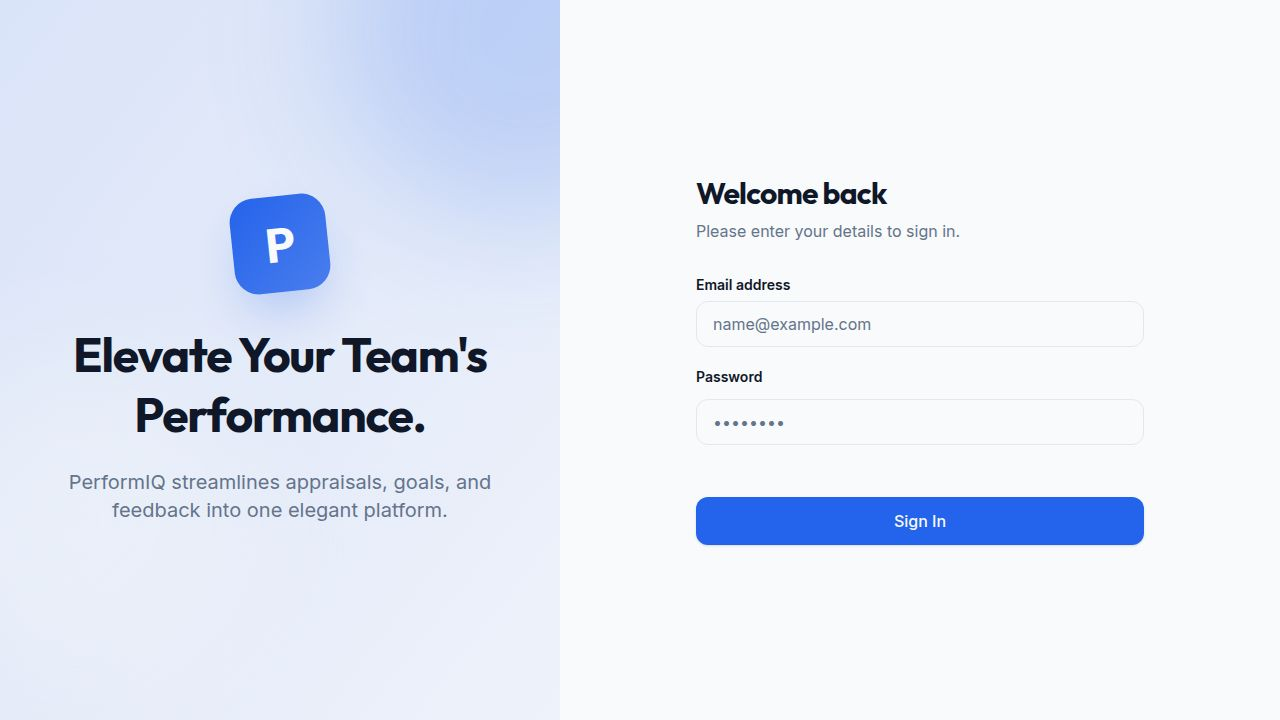
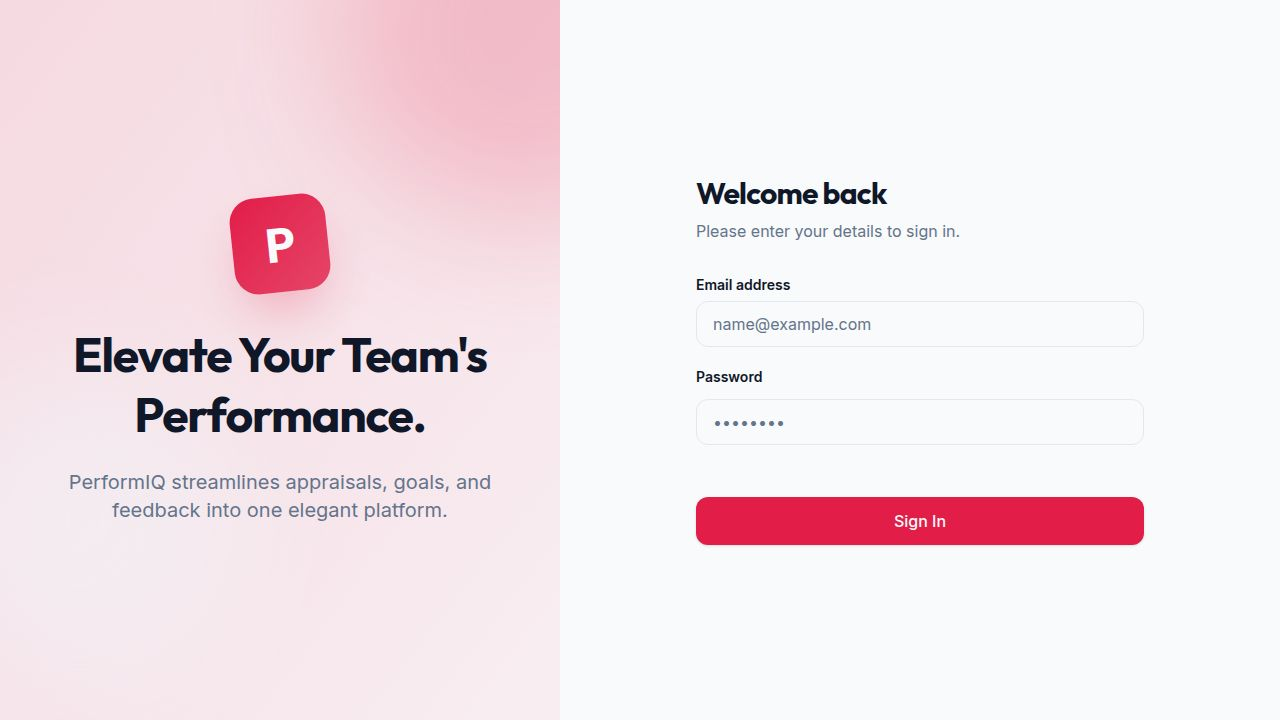
Add ability to customize the login page design from appearance settings
Introduce new settings for login page headline, subtext, and background gradient, allowing customization via the appearance settings page.

Replit-Commit-Author: Agent
Replit-Commit-Session-Id: 0c6ce9b4-778c-45e8-ae0c-097687640525
Replit-Commit-Checkpoint-Type: full_checkpoint
Replit-Commit-Event-Id: 38b9ef53-7b1d-4f4a-b946-f3e480108b39
Replit-Commit-Screenshot-Url: https://storage.googleapis.com/screenshot-production-us-central1/889d71d2-f1c3-46b7-b907-7d07c97ef2fa/0c6ce9b4-778c-45e8-ae0c-097687640525/knDMowQ
Replit-Helium-Checkpoint-Created: true

Changed region(s): [[0.0, 0.0, 0.4375, 0.4889], [0.5312, 0.6722, 0.9062, 0.7639]]

diff --git a/artifacts/performiq/src/pages/appearance.tsx b/artifacts/performiq/src/pages/appearance.tsx
@@ -8,8 +8,9 @@ import { Card, CardContent, CardHeader, CardTitle, CardDescription } from "@/com
 import { Button } from "@/components/ui/button";
 import { Input } from "@/components/ui/input";
 import { Label } from "@/components/ui/label";
+import { Textarea } from "@/components/ui/textarea";
 import { useToast } from "@/hooks/use-toast";
-import { Paintbrush, Type, Check } from "lucide-react";
+import { Paintbrush, Type, Check, Monitor } from "lucide-react";
 
 function authHeader() {
   const token = localStorage.getItem("token");
@@ -38,11 +39,24 @@ export default function Appearance() {
   const [companyName, setCompanyName] = useState(settings.companyName);
   const [logoLetter, setLogoLetter] = useState(settings.logoLetter);
   const [selectedTheme, setSelectedTheme] = useState(settings.themeName);
+  const [loginHeadline, setLoginHeadline] = useState(settings.loginHeadline);
+  const [loginSubtext, setLoginSubtext] = useState(settings.loginSubtext);
+  const [loginBgFrom, setLoginBgFrom] = useState(settings.loginBgFrom || "#f0f4ff");
+  const [loginBgTo, setLoginBgTo] = useState(settings.loginBgTo || "#ffffff");
+  const [useCustomBg, setUseCustomBg] = useState(!!(settings.loginBgFrom && settings.loginBgTo));
 
   useEffect(() => {
     setCompanyName(settings.companyName);
     setLogoLetter(settings.logoLetter);
     setSelectedTheme(settings.themeName);
+    setLoginHeadline(settings.loginHeadline);
+    setLoginSubtext(settings.loginSubtext);
+    const hasBg = !!(settings.loginBgFrom && settings.loginBgTo);
+    setUseCustomBg(hasBg);
+    if (hasBg) {
+      setLoginBgFrom(settings.loginBgFrom);
+      setLoginBgTo(settings.loginBgTo);
+    }
   }, [settings]);
 
   const previewTheme = THEMES.find(t => t.name === selectedTheme) ?? THEMES[0];
@@ -57,6 +71,10 @@ export default function Appearance() {
           logoLetter: (logoLetter.trim() || "P").slice(0, 3).toUpperCase(),
           primaryHsl: previewTheme.hsl,
           themeName: previewTheme.name,
+          loginHeadline: loginHeadline.trim(),
+          loginSubtext: loginSubtext.trim(),
+          loginBgFrom: useCustomBg ? loginBgFrom : "",
+          loginBgTo: useCustomBg ? loginBgTo : "",
         }),
       }).then(r => r.ok ? r.json() : r.json().then((e: any) => Promise.reject(e.error))),
     onSuccess: () => {
@@ -72,6 +90,10 @@ export default function Appearance() {
 
   const logoLetterDisplay = (logoLetter.trim() || "P").slice(0, 3).toUpperCase();
 
+  const previewBgStyle = useCustomBg
+    ? { background: `linear-gradient(135deg, ${loginBgFrom}, ${loginBgTo})` }
+    : { background: `linear-gradient(135deg, ${previewTheme.preview}22, ${previewTheme.preview}08)` };
+
   return (
     <div className="p-6 space-y-6 max-w-2xl">
       <PageHeader
@@ -79,6 +101,7 @@ export default function Appearance() {
         description="Customise your company branding and colour theme across the app."
       />
 
+      {/* Company Branding */}
       <Card>
         <CardHeader>
           <CardTitle className="flex items-center gap-2">
@@ -123,6 +146,7 @@ export default function Appearance() {
         </CardContent>
       </Card>
 
+      {/* Colour Theme */}
       <Card>
         <CardHeader>
           <CardTitle className="flex items-center gap-2">
@@ -153,6 +177,112 @@ export default function Appearance() {
                 <span className="text-xs font-medium">{theme.label}</span>
               </button>
             ))}
+          </div>
+        </CardContent>
+      </Card>
+
+      {/* Login Page Panel */}
+      <Card>
+        <CardHeader>
+          <CardTitle className="flex items-center gap-2">
+            <Monitor className="h-5 w-5" />
+            Login Page Panel
+          </CardTitle>
+          <CardDescription>Customise the left panel on the sign-in page — the headline, description, and background.</CardDescription>
+        </CardHeader>
+        <CardContent className="space-y-5">
+          {/* Live mini-preview */}
+          <div
+            className="relative rounded-xl overflow-hidden h-40 flex items-center justify-center p-6 border"
+            style={previewBgStyle}
+          >
+            <div className="text-center max-w-xs">
+              <div
+                className="w-10 h-10 rounded-xl flex items-center justify-center text-white font-bold text-lg mx-auto mb-3 shadow-md -rotate-6"
+                style={{ backgroundColor: previewTheme.preview }}
+              >
+                {logoLetterDisplay}
+              </div>
+              <p className="font-bold text-sm leading-snug mb-1 line-clamp-2">{loginHeadline || "Headline text…"}</p>
+              <p className="text-xs text-muted-foreground line-clamp-2">{loginSubtext || "Subtext…"}</p>
+            </div>
+          </div>
+
+          <div className="space-y-1">
+            <Label htmlFor="login-headline">Headline</Label>
+            <Input
+              id="login-headline"
+              value={loginHeadline}
+              onChange={e => setLoginHeadline(e.target.value)}
+              placeholder="Elevate Your Team's Performance."
+              maxLength={200}
+            />
+          </div>
+
+          <div className="space-y-1">
+            <Label htmlFor="login-subtext">Subtext / description</Label>
+            <Textarea
+              id="login-subtext"
+              value={loginSubtext}
+              onChange={e => setLoginSubtext(e.target.value)}
+              placeholder="PerformIQ streamlines appraisals, goals, and feedback into one elegant platform."
+              maxLength={400}
+              rows={3}
+            />
+          </div>
+
+          {/* Custom background toggle */}
+          <div className="space-y-3">
+            <div className="flex items-center gap-3">
+              <input
+                type="checkbox"
+                id="custom-bg"
+                checked={useCustomBg}
+                onChange={e => setUseCustomBg(e.target.checked)}
+                className="w-4 h-4 accent-primary"
+              />
+              <Label htmlFor="custom-bg" className="cursor-pointer">Use custom background gradient</Label>
+            </div>
+            {useCustomBg && (
+              <div className="grid grid-cols-2 gap-4 pl-7">
+                <div className="space-y-1">
+                  <Label htmlFor="bg-from">Gradient start colour</Label>
+                  <div className="flex items-center gap-2">
+                    <input
+                      type="color"
+                      id="bg-from"
+                      value={loginBgFrom}
+                      onChange={e => setLoginBgFrom(e.target.value)}
+                      className="w-10 h-9 rounded cursor-pointer border border-border p-0.5"
+                    />
+                    <Input
+                      value={loginBgFrom}
+                      onChange={e => setLoginBgFrom(e.target.value)}
+                      placeholder="#f0f4ff"
+                      className="font-mono text-sm"
+                    />
+                  </div>
+                </div>
+                <div className="space-y-1">
+                  <Label htmlFor="bg-to">Gradient end colour</Label>
+                  <div className="flex items-center gap-2">
+                    <input
+                      type="color"
+                      id="bg-to"
+                      value={loginBgTo}
+                      onChange={e => setLoginBgTo(e.target.value)}
+                      className="w-10 h-9 rounded cursor-pointer border border-border p-0.5"
+                    />
+                    <Input
+                      value={loginBgTo}
+                      onChange={e => setLoginBgTo(e.target.value)}
+                      placeholder="#ffffff"
+                      className="font-mono text-sm"
+                    />
+                  </div>
+                </div>
+              </div>
+            )}
           </div>
         </CardContent>
       </Card>

diff --git a/artifacts/performiq/src/pages/login.tsx b/artifacts/performiq/src/pages/login.tsx
@@ -6,6 +6,7 @@ import { Button, Input, Label } from "@/components/shared";
 import { AlertCircle, ShieldCheck, ArrowLeft } from "lucide-react";
 import { motion, AnimatePresence } from "framer-motion";
 import { apiFetch } from "@/lib/utils";
+import { useAppSettings } from "@/hooks/use-app-settings";
 
 export default function Login() {
   const [email, setEmail] = useState("");
@@ -17,6 +18,7 @@ export default function Login() {
   const { login } = useAuth();
   const [, setLocation] = useLocation();
   const loginMutation = useLogin();
+  const { settings } = useAppSettings();
 
   const handleSubmit = (e: React.FormEvent) => {
     e.preventDefault();
@@ -61,17 +63,24 @@ export default function Login() {
     }
   };
 
+  const bgStyle = settings.loginBgFrom && settings.loginBgTo
+    ? { background: `linear-gradient(135deg, ${settings.loginBgFrom}, ${settings.loginBgTo})` }
+    : undefined;
+
   const leftPanel = (
-    <div className="hidden lg:flex flex-1 relative bg-primary/5 items-center justify-center p-12 overflow-hidden">
-      <div className="absolute top-0 left-0 w-full h-full bg-gradient-to-br from-primary/10 to-transparent pointer-events-none" />
-      <div className="absolute -top-40 -right-40 w-96 h-96 bg-primary/20 rounded-full blur-3xl" />
-      <div className="absolute bottom-10 -left-20 w-80 h-80 bg-accent/50 rounded-full blur-3xl" />
+    <div
+      className="hidden lg:flex flex-1 relative bg-primary/5 items-center justify-center p-12 overflow-hidden"
+      style={bgStyle}
+    >
+      {!bgStyle && <div className="absolute top-0 left-0 w-full h-full bg-gradient-to-br from-primary/10 to-transparent pointer-events-none" />}
+      {!bgStyle && <div className="absolute -top-40 -right-40 w-96 h-96 bg-primary/20 rounded-full blur-3xl" />}
+      {!bgStyle && <div className="absolute bottom-10 -left-20 w-80 h-80 bg-accent/50 rounded-full blur-3xl" />}
       <div className="relative z-10 max-w-lg text-center">
         <div className="w-24 h-24 bg-gradient-to-br from-primary to-primary/80 rounded-3xl flex items-center justify-center text-primary-foreground font-bold text-5xl font-display shadow-2xl shadow-primary/30 mx-auto mb-8 transform -rotate-6">
-          P
+          {settings.logoLetter}
         </div>
-        <h1 className="text-5xl font-display font-bold text-foreground mb-6 leading-tight">Elevate Your Team's Performance.</h1>
-        <p className="text-xl text-muted-foreground">PerformIQ streamlines appraisals, goals, and feedback into one elegant platform.</p>
+        <h1 className="text-5xl font-display font-bold text-foreground mb-6 leading-tight">{settings.loginHeadline}</h1>
+        <p className="text-xl text-muted-foreground">{settings.loginSubtext}</p>
       </div>
     </div>
   );

diff --git a/backend/src/routes/app-settings.ts b/backend/src/routes/app-settings.ts
@@ -23,12 +23,16 @@ router.get("/app-settings", async (_req, res) => {
 
 router.put("/app-settings", requireAuth, requireRole("admin"), async (req, res) => {
   try {
-    const { companyName, logoLetter, primaryHsl, themeName } = req.body;
+    const { companyName, logoLetter, primaryHsl, themeName, loginHeadline, loginSubtext, loginBgFrom, loginBgTo } = req.body;
     const updates: Partial<typeof appSettingsTable.$inferInsert> = { updatedAt: new Date() };
     if (typeof companyName === "string" && companyName.trim()) updates.companyName = companyName.trim().slice(0, 60);
     if (typeof logoLetter === "string" && logoLetter.trim()) updates.logoLetter = logoLetter.trim().slice(0, 3);
     if (typeof primaryHsl === "string") updates.primaryHsl = primaryHsl;
     if (typeof themeName === "string") updates.themeName = themeName;
+    if (typeof loginHeadline === "string") updates.loginHeadline = loginHeadline.slice(0, 200);
+    if (typeof loginSubtext === "string") updates.loginSubtext = loginSubtext.slice(0, 400);
+    if (typeof loginBgFrom === "string") updates.loginBgFrom = loginBgFrom;
+    if (typeof loginBgTo === "string") updates.loginBgTo = loginBgTo;
     const [updated] = await db.update(appSettingsTable).set(updates).where(eq(appSettingsTable.id, 1)).returning();
     res.json(updated);
   } catch {

diff --git a/artifacts/performiq/src/hooks/use-app-settings.tsx b/artifacts/performiq/src/hooks/use-app-settings.tsx
@@ -6,6 +6,10 @@ export interface AppSettings {
   logoLetter: string;
   primaryHsl: string;
   themeName: string;
+  loginHeadline: string;
+  loginSubtext: string;
+  loginBgFrom: string;
+  loginBgTo: string;
 }
 
 const defaults: AppSettings = {
@@ -13,6 +17,10 @@ const defaults: AppSettings = {
   logoLetter: "P",
   primaryHsl: "221 83% 53%",
   themeName: "blue",
+  loginHeadline: "Elevate Your Team's Performance.",
+  loginSubtext: "PerformIQ streamlines appraisals, goals, and feedback into one elegant platform.",
+  loginBgFrom: "",
+  loginBgTo: "",
 };
 
 const AppSettingsContext = createContext<{
@@ -38,6 +46,10 @@ export function AppSettingsProvider({ children }: { children: ReactNode }) {
             logoLetter: data.logoLetter || defaults.logoLetter,
             primaryHsl: data.primaryHsl || defaults.primaryHsl,
             themeName: data.themeName || defaults.themeName,
+            loginHeadline: data.loginHeadline ?? defaults.loginHeadline,
+            loginSubtext: data.loginSubtext ?? defaults.loginSubtext,
+            loginBgFrom: data.loginBgFrom ?? "",
+            loginBgTo: data.loginBgTo ?? "",
           };
           setSettings(s);
           applyTheme(s.primaryHsl);

diff --git a/backend/src/db/schema/app-settings.ts b/backend/src/db/schema/app-settings.ts
@@ -6,6 +6,10 @@ export const appSettingsTable = pgTable("app_settings", {
   logoLetter: text("logo_letter").notNull().default("P"),
   primaryHsl: text("primary_hsl").notNull().default("221 83% 53%"),
   themeName: text("theme_name").notNull().default("blue"),
+  loginHeadline: text("login_headline").notNull().default("Elevate Your Team's Performance."),
+  loginSubtext: text("login_subtext").notNull().default("PerformIQ streamlines appraisals, goals, and feedback into one elegant platform."),
+  loginBgFrom: text("login_bg_from").notNull().default(""),
+  loginBgTo: text("login_bg_to").notNull().default(""),
   updatedAt: timestamp("updated_at").notNull().defaultNow(),
 });
 
